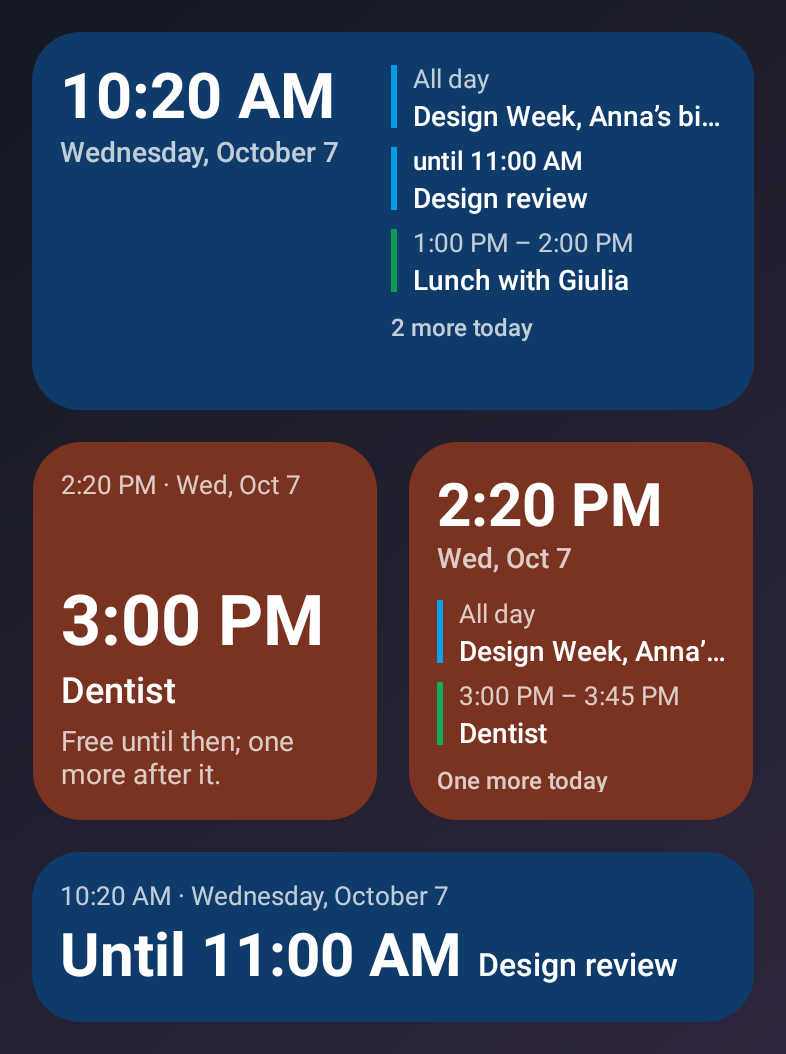
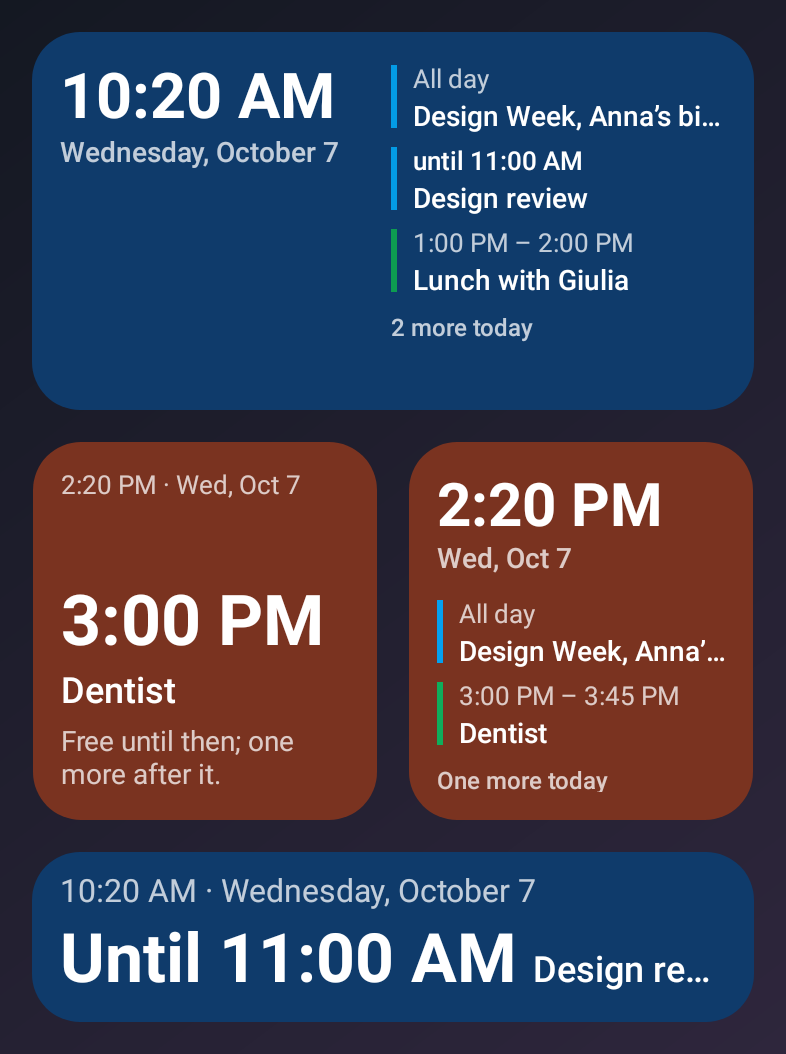
«In words»: Passo's row sizes, so the two cards match side by side
On the owner's phone the one-row «In words» card showed wide empty bands above
and below beside Passo's «At a glance». The insets were already the family's
(6 dp on a row); the content was small for the row (the line on top at 13 sp,
the time at most 30 sp), so the leftover height went into the bands.

- The time and the date on top at 16 sp (Passo's "of 8,000 steps"); a dated
  line steps down to 14, then 13 sp on a narrow card before it loses the date.
- The focus's time up to 34 sp (Passo's count, "86"), the title at 18 sp on
  the time's baseline (a computed lift, not a fixed 3 dp).
- The line on top is budgeted as the TextClock it is (no font padding).
- Tests: the one-row card at Passo's sizes and within its row at every text
  size, the date kept a size down; WidgetFitTest still finds nothing cut.
- README widgets picture regenerated; PLANNING §7 and §15, ADR 0003.

Claude-Session: https://claude.ai/code/session_01AC6jmVQdoCMP6rX2yoFrNh

Changed region(s): [[0.0611, 0.8197, 0.8855, 0.9412]]

diff --git a/core/domain/src/main/kotlin/com/callbackdev/tempo/core/domain/widget/WordsFit.kt b/core/domain/src/main/kotlin/com/callbackdev/tempo/core/domain/widget/WordsFit.kt
@@ -8,8 +8,12 @@ package com.callbackdev.tempo.core.domain.widget
  * |---|---|---|---|---|
  * | 1 | the focus's time ("15:00", "Until 11:00", "Free") | scaled to the grant | Bold | strong |
  * | 2 | its title | [TITLE_SP] | Medium | strong |
- * | 3 | the day's note, the line of times after it | [NOTE_SP] | Regular | quiet |
- * | 4 | the time and the date on top (the system's `TextClock`); a later day's name over the focus | [TOP_SP] | Regular / Medium | quiet |
+ * | 3 | the time and the date on top (the system's `TextClock`); a later day's name over the focus | [TOP_SP], [LABEL_SP] | Regular / Medium | quiet |
+ * | 4 | the day's note, the line of times after it | [NOTE_SP] | Regular | quiet |
+ *
+ * The sizes are Passo's «At a glance» row, so the family's cards read as one set on a home screen
+ * (owner, 8 Oct 2026): the focus's time up to its count's [LINE_HERO_MAX], the line on top at its
+ * facts' [TOP_SP].
  *
  * Four forms:
  *
@@ -30,6 +34,8 @@ enum class WordsForm { NEXT, LINE, STACK, PANEL }
  * @property topEms the small line on top in each style the card may use, in ems of the regular
  *   face, the reader's first ("10:20 · Wednesday 8 October", then shorter); empty when the reader
  *   hid both the clock and the date.
+ * @property topDated how many of [topEms], from the first, carry the date: the rest are the time
+ *   alone, which a narrow card takes only when no dated line fits even a size smaller.
  * @property heroEm the focus's time, in ems of the bold face.
  * @property label whether the focus carries a label over it (a later day's name).
  * @property title whether the focus has a title ("Free" has none).
@@ -42,6 +48,7 @@ data class WordsSpec(
     val height: Float,
     val fontScale: Float,
     val topEms: List<Float>,
+    val topDated: Int = topEms.size,
     val heroEm: Float,
     val label: Boolean,
     val title: Boolean,
@@ -51,7 +58,7 @@ data class WordsSpec(
 )
 
 /**
- * The card's plan: [topChoice] into [WordsSpec.topEms] (-1: no top line), the focus's size, the
+ * The card's plan: [topChoice] into [WordsSpec.topEms] (-1: no top line) at [topSp], the focus's size, the
  * title's size and lines (0: not drawn; [titleInline] beside the time), the note's lines, and
  * whether the line of times is drawn.
  */
@@ -67,7 +74,11 @@ data class WordsPlan(
     val then: Boolean,
     val snug: Boolean,
     val sidePadding: Float = AgendaFit.CARD_PADDING,
+    val topSp: Float = WordsFit.TOP_SP,
 )
+
+/** The line on top as drawn: which style, at which size. */
+private data class TopLine(val choice: Int, val sp: Float)
 
 object WordsFit {
     fun form(width: Float, height: Float): WordsForm = when {
@@ -89,9 +100,20 @@ object WordsFit {
     private fun sidePadding(spec: WordsSpec) =
         if (spec.width < AgendaFit.CLOCK_FORM_MAX_WIDTH) AgendaFit.CELL_PADDING else AgendaFit.CARD_PADDING
 
-    /** The small line on top: the first style whose width fits, or none. */
-    private fun topChoice(spec: WordsSpec): Int =
-        spec.topEms.indexOfFirst { widthOf(it, TOP_SP, spec.fontScale) <= innerWidth(spec) }
+    /**
+     * The line on top: the first dated style whose width fits at [TOP_SP], else a size smaller
+     * (down to [TOP_MIN_SP]) rather than lose the date, else the time alone; none where nothing fits.
+     */
+    private fun topLine(spec: WordsSpec): TopLine? {
+        val width = innerWidth(spec)
+        fun fits(choice: Int, sp: Float) = widthOf(spec.topEms[choice], sp, spec.fontScale) <= width
+        val dated = 0 until spec.topDated.coerceAtMost(spec.topEms.size)
+        TOP_SIZES.forEach { sp -> dated.firstOrNull { fits(it, sp) }?.let { return TopLine(it, sp) } }
+        return (dated.last + 1 until spec.topEms.size).firstOrNull { fits(it, TOP_SP) }?.let { TopLine(it, TOP_SP) }
+    }
+
+    /** What the line on top takes of the height: a `TextClock` without font padding. */
+    private fun topHeight(top: TopLine?, scale: Float): Float = top?.let { clockLineHeight(it.sp, scale) } ?: 0f
 
     /** One cell: the label, the time as large as fits, the title under it if a line is left. */
     private fun nextPlan(spec: WordsSpec): WordsPlan {
@@ -126,8 +148,8 @@ object WordsFit {
     private fun linePlan(spec: WordsSpec): WordsPlan {
         val inner = spec.height - AgendaFit.CARD_PADDING_SNUG * 2
         val width = innerWidth(spec)
-        val top = topChoice(spec)
-        val topHeight = if (top >= 0) lineHeight(TOP_SP, spec.fontScale) else 0f
+        val top = topLine(spec)
+        val topHeight = topHeight(top, spec.fontScale)
         val label = if (spec.label) lineHeight(LABEL_SP, spec.fontScale) else 0f
         fun hero(room: Float, most: Float) = quarterPoint(
             minOf(sizeForLine(room, spec.fontScale), LINE_HERO_MAX, spThatFits(most, spec.heroEm, spec.fontScale)),
@@ -138,7 +160,8 @@ object WordsFit {
         if (!spec.title || (inlineHero >= LINE_HERO_FLOOR && titleRoom >= INLINE_TITLE_MIN)) {
             return WordsPlan(
                 form = WordsForm.LINE,
-                topChoice = top,
+                topChoice = top?.choice ?: -1,
+                topSp = top?.sp ?: TOP_SP,
                 label = spec.label,
                 heroSp = inlineHero,
                 titleSp = LINE_TITLE_SP,
@@ -152,19 +175,20 @@ object WordsFit {
         // Stacked: the title under the time; the small line only where the time keeps its floor.
         val titleHeight = lineHeight(CELL_TITLE_SP + 2f, spec.fontScale)
         val withTop = hero(inner - topHeight - label - titleHeight, width)
-        val keepTop = top >= 0 && withTop >= LINE_HERO_FLOOR
+        val keepTop = top != null && withTop >= LINE_HERO_FLOOR
         val heroSp = if (keepTop) withTop else hero(inner - label - titleHeight, width)
         return WordsPlan(
-            WordsForm.LINE,
-            if (keepTop) top else -1,
-            spec.label,
-            heroSp,
-            CELL_TITLE_SP + 2f,
-            1,
-            false,
-            0,
-            false,
-            true,
+            form = WordsForm.LINE,
+            topChoice = if (keepTop) top?.choice ?: -1 else -1,
+            topSp = top?.sp ?: TOP_SP,
+            label = spec.label,
+            heroSp = heroSp,
+            titleSp = CELL_TITLE_SP + 2f,
+            titleLines = 1,
+            titleInline = false,
+            noteLines = 0,
+            then = false,
+            snug = true,
         )
     }
 
@@ -186,9 +210,9 @@ object WordsFit {
             left -= titleLine
             titleLines = 1
         }
-        var top = topChoice(spec)
-        val topHeight = lineHeight(TOP_SP, scale) + TOP_GAP
-        if (top >= 0 && left >= topHeight) left -= topHeight else top = -1
+        var top = topLine(spec)
+        val topHeight = topHeight(top, scale) + TOP_GAP
+        if (top != null && left >= topHeight) left -= topHeight else top = null
         // The note whole or not at all: a sentence cut off mid-phrase says less than none.
         val noteLine = lineHeight(NOTE_SP, scale)
         val noteHeight = noteLine * spec.noteLines + NOTE_GAP
@@ -204,16 +228,31 @@ object WordsFit {
             quarterPoint(
                 minOf(sizeForLine(lineHeight(floor, scale) + left.coerceAtLeast(0f), scale), TALL_HERO_MAX, byWidth),
             )
-        return WordsPlan(form, top, spec.label, hero, TITLE_SP, titleLines, false, noteLines, then, false)
+        return WordsPlan(
+            form = form,
+            topChoice = top?.choice ?: -1,
+            topSp = top?.sp ?: TOP_SP,
+            label = spec.label,
+            heroSp = hero,
+            titleSp = TITLE_SP,
+            titleLines = titleLines,
+            titleInline = false,
+            noteLines = noteLines,
+            then = then,
+            snug = false,
+        )
     }
 
     const val PANEL_MIN_WIDTH = 300f
 
-    const val TOP_SP = 13f
+    /** Passo's facts ("of 8,000 steps"); a narrow card's dated line steps down to [TOP_MIN_SP]. */
+    const val TOP_SP = 16f
+    const val TOP_MIN_SP = 13f
+    private val TOP_SIZES = listOf(TOP_SP, 14f, TOP_MIN_SP)
     const val TOP_GAP = 4f
-    const val LABEL_SP = 13f
+    const val LABEL_SP = 14f
     const val TITLE_SP = 18f
-    const val LINE_TITLE_SP = 16f
+    const val LINE_TITLE_SP = 18f
     const val CELL_TITLE_SP = 12f
     const val NOTE_SP = 14f
     const val NOTE_GAP = 4f
@@ -221,7 +260,9 @@ object WordsFit {
 
     const val NEXT_HERO_MAX = 32f
     const val NEXT_HERO_COMFORT = 20f
-    const val LINE_HERO_MAX = 30f
+
+    /** Passo's count on its row ("86"), so the two cards' numbers match side by side. */
+    const val LINE_HERO_MAX = 34f
     const val LINE_HERO_FLOOR = 20f
     const val INLINE_TITLE_MIN = 72f
     const val INLINE_GAP = 8f

diff --git a/widget/src/main/kotlin/com/callbackdev/tempo/widget/words/WordsWidget.kt b/widget/src/main/kotlin/com/callbackdev/tempo/widget/words/WordsWidget.kt
@@ -161,16 +161,21 @@ private class WordsParts(val context: Context, val model: WidgetModel, private v
      * The small line on top, in the order it is tried: the time and the reader's date, the time and
      * a shorter date, the time alone; the date alone where the reader hid the time.
      */
+    private val dates = DateStyle.entries.drop(text.dateStyle.ordinal)
+
     val topPatterns: List<ClockPatterns> = run {
         val time = ClockPatterns.time(locale, look.clockFormat ?: model.settings.clockFormat)
-        val dates = DateStyle.entries.drop(text.dateStyle.ordinal).map { ClockPatterns.date(locale, it).twentyFour }
+        val datePatterns = dates.map { ClockPatterns.date(locale, it).twentyFour }
         when {
-            look.showClock && look.showDate -> dates.map { time.withDate(it) } + time
+            look.showClock && look.showDate -> datePatterns.map { time.withDate(it) } + time
             look.showClock -> listOf(time)
-            look.showDate -> dates.map { ClockPatterns(it, it) }
+            look.showDate -> datePatterns.map { ClockPatterns(it, it) }
             else -> emptyList()
         }
     }
+
+    /** The patterns that carry the date: every one but the time alone. */
+    private val topDated = if (look.showDate) dates.size else 0
     private val topEms = topPatterns.map { patterns ->
         val pattern = patterns.current(context)
         textEm(
@@ -186,6 +191,7 @@ private class WordsParts(val context: Context, val model: WidgetModel, private v
             height = size.height.value,
             fontScale = scale,
             topEms = topEms,
+            topDated = topDated,
             heroEm = textEm(context, hero, TextWeight.BOLD),
             label = label != null,
             title = title != null,
@@ -219,11 +225,15 @@ private class WordsParts(val context: Context, val model: WidgetModel, private v
             WidgetIntents.header(context, look.headerTap, model.doors, model.now.toInstant()),
         )
 
+    /** The title's lift beside the time in an inline row, so the two share a baseline. */
+    val inlineBaseline: Dp
+        get() = ((plan.heroSp - plan.titleSp) * DESCENT_EM * scale).coerceAtLeast(0f).dp
+
     /** What a message has of the card: its height, less the insets and the small line on top. */
     val messageRoom: Dp
         get() = (
             size.height.value - (if (plan.snug) AgendaFit.CARD_PADDING_SNUG else AgendaFit.CARD_PADDING) * 2 -
-                (if (plan.topChoice >= 0) clockLineHeight(WordsFit.TOP_SP, scale) + WordsFit.TOP_GAP else 0f)
+                (if (plan.topChoice >= 0) clockLineHeight(plan.topSp, scale) + WordsFit.TOP_GAP else 0f)
             ).dp
 
     /** A touch on the focus opens it as the reader chose; on "Free" or a message, Tempo. */
@@ -253,13 +263,13 @@ private fun TopLine(parts: WordsParts, palette: WidgetPalette) {
             parts.context,
             ClockFace.REGULAR,
             parts.topPatterns[choice],
-            WordsFit.TOP_SP,
+            parts.plan.topSp,
             palette.secondary,
             1,
             parts.headerIntent,
             parts.model.now.takeIf { parts.model.frozenClock },
         ),
-        modifier = GlanceModifier.height(clockLineHeight(WordsFit.TOP_SP, parts.scale).dp),
+        modifier = GlanceModifier.height(clockLineHeight(parts.plan.topSp, parts.scale).dp),
     )
 }
 
@@ -359,7 +369,7 @@ private fun LineContent(parts: WordsParts, palette: WidgetPalette) {
                         palette,
                         GlanceModifier.padding(
                             start = WordsFit.INLINE_GAP.dp,
-                            bottom = INLINE_BASELINE.dp,
+                            bottom = parts.inlineBaseline,
                         ).defaultWeight(),
                     )
                 }
@@ -401,5 +411,9 @@ private fun TallContent(parts: WordsParts, palette: WidgetPalette) {
     }
 }
 
-/** The title's lift in an inline row, so it sits nearer the bold time's baseline than its box's bottom. */
-private const val INLINE_BASELINE = 3f
+/**
+ * Roboto's line box under the baseline (555 of 2048 units): a line keeps the face's descent under
+ * its baseline in proportion to its size, so the large time stands higher than a smaller title
+ * bottom-aligned with it (Chiaro's `textPanelBaselineLift`, Passo's `baselineLift`).
+ */
+private const val DESCENT_EM = 0.271f

diff --git a/core/domain/src/test/kotlin/com/callbackdev/tempo/core/domain/widget/WordsTest.kt b/core/domain/src/test/kotlin/com/callbackdev/tempo/core/domain/widget/WordsTest.kt
@@ -75,6 +75,7 @@ class WordsTest {
             height = height,
             fontScale = scale,
             topEms = listOf(14.5f, 9.8f, 2.4f),
+            topDated = 2,
             heroEm = 2.65f,
             label = label,
             title = title,
@@ -119,6 +120,33 @@ class WordsTest {
     }
 
     @Test
+    fun `a one-row card has Passo's sizes, the time at its count's and the line on top at its facts'`() {
+        val row = WordsFit.plan(spec(340f, 85f))
+        assertThat(row.heroSp).isEqualTo(WordsFit.LINE_HERO_MAX)
+        assertThat(row.topChoice).isEqualTo(0)
+        assertThat(row.topSp).isEqualTo(WordsFit.TOP_SP)
+        val used = clockLineHeight(row.topSp, 1f) + lineHeight(row.heroSp, 1f)
+        assertThat(used).isAtMost(85f - AgendaFit.CARD_PADDING_SNUG * 2)
+    }
+
+    @Test
+    fun `a one-row card keeps the time whole at any text size, the line on top giving way first`() {
+        listOf(1.15f, 1.3f, 2f).forEach { scale ->
+            val row = WordsFit.plan(spec(340f, 85f, scale = scale))
+            val top = if (row.topChoice >= 0) clockLineHeight(row.topSp, scale) else 0f
+            assertThat(top + lineHeight(row.heroSp, scale)).isAtMost(85f - AgendaFit.CARD_PADDING_SNUG * 2 + 0.5f)
+        }
+    }
+
+    @Test
+    fun `a dated line steps a size down before it loses the date`() {
+        val plan = WordsFit.plan(spec(170f, 189f))
+        assertThat(plan.topChoice).isEqualTo(1)
+        assertThat(plan.topSp).isLessThan(WordsFit.TOP_SP)
+        assertThat(plan.topSp).isAtLeast(WordsFit.TOP_MIN_SP)
+    }
+
+    @Test
     fun `the narrow tall card shortens its top line rather than dropping it`() {
         assertThat(WordsFit.plan(spec(159f, 189f)).topChoice).isEqualTo(2)
         assertThat(WordsFit.plan(spec(200f, 189f)).topChoice).isEqualTo(1)
@@ -131,7 +159,7 @@ class WordsTest {
                 val plan = WordsFit.plan(spec(w, h, scale, label = true))
                 val used = lineHeight(plan.heroSp, scale) + lineHeight(WordsFit.LABEL_SP, scale) +
                     lineHeight(WordsFit.TITLE_SP, scale) * plan.titleLines +
-                    (if (plan.topChoice >= 0) lineHeight(WordsFit.TOP_SP, scale) + WordsFit.TOP_GAP else 0f) +
+                    (if (plan.topChoice >= 0) clockLineHeight(plan.topSp, scale) + WordsFit.TOP_GAP else 0f) +
                     (if (plan.noteLines > 0) WordsFit.NOTE_GAP else 0f) +
                     lineHeight(WordsFit.NOTE_SP, scale) * (plan.noteLines + if (plan.then) 1 else 0)
                 assertThat(used).isAtMost(h - AgendaFit.CARD_PADDING * 2 + 0.5f)

diff --git a/PLANNING.md b/PLANNING.md
@@ -275,7 +275,7 @@ With the clock and the date both hidden, the card is its list alone, on any gran
 | «In words» form | When | Content |
 |---|---|---|
 | NEXT | one cell | The focus's time ("Until" over "11:00", "Next" over "15:00", "Free"), its title where the cell has room |
-| LINE | one row | The time and the date as a small line; the focus's time and title on one line (under it on a narrow row) |
+| LINE | one row | The time and the date as a line on top (16 sp); the focus's time (up to 34 sp) and title (18 sp) on one line, on one baseline (the title under the time on a narrow row): Passo's row's sizes |
 | STACK | two rows and up | The time and date on top; the focus large (time, then title); the day's note at the bottom |
 | PANEL | two rows and up, four cells | The same, with the rest of the day as a line of times ("Then 16:30 · 18:00") in place of the note's count |
 
@@ -574,6 +574,8 @@ Each phase ends with a merged PR, green CI and its acceptance criteria met. Phas
 - **8 Oct 2026, Phase 4.** An event's touch opens its occurrence in the calendar app by default (Tempo's Today is the other choice): it is what a touch on an event does on Today. Two occurrences of one repeating event are two pending intents (`Intent.setIdentifier`), else the second's times would ride on the first.
 - **8 Oct 2026, Phase 4.** The widgets' refresh also runs when Tempo's settings change and when the reader leaves the app (where they may have granted the permission or hidden a calendar): both are the reader's own acts, never a timer. The Application listens to the settings, which costs nothing until one changes.
 - **8 Oct 2026, Phase 4.** The first run's last button is now «Next» on the calendar's page and «Done» on the widgets' page; "Not now" leads to the widgets, which are offered, never required. The feature modules reach the widgets through `HomeScreenWidgets` (`:core:data`), bound by `:widget`.
+
+- **8 Oct 2026, after Phase 4.** «In words» takes Passo's «At a glance» row sizes (owner, from the phone: beside Passo's card the one-row card showed wide empty bands above and below). The insets were already the family's (6 dp on a row); the content was small for the row (the line on top at 13 sp, the time at most 30 sp), so the air went into the bands. Now the line on top is at Passo's facts' 16 sp ("of 8,000 steps") and the focus's time grows to Passo's count's 34 sp ("86"), with the title at 18 sp on the time's baseline: a 4×1 card holds 19 dp + 45 dp of its 73, as Passo's does. On a narrow card a dated line steps down to 14, then 13 sp, before it loses the date; the tall forms take the same line on top. The line on top is budgeted as the `TextClock` it is (1.2 em, no font padding), not as a Glance text. `WidgetFitTest` still finds nothing cut, in both languages, at 1 to 1.3 the text size.
 
 ### Open
 

diff --git a/docs/adr/0003-widgets.md b/docs/adr/0003-widgets.md
@@ -68,6 +68,10 @@ have, and Tempo needs, is a clock and a refresh driven by a calendar instead of 
    pin request where the launcher takes one, and the way by hand where it does not. The feature
    modules reach `:widget` through `HomeScreenWidgets` (`:core:data`), bound by Hilt.
 
+8. **«In words» on Passo's row's sizes** (owner, 8 Oct 2026, after the first cards on the phone):
+   the line on top at 16 sp, the focus's time up to 34 sp, so the two cards read as one set side
+   by side; `WordsFit` keeps the numbers, the tests their consequences.
+
 ## Consequences
 
 - Nothing of Tempo runs for the widgets while nothing changes; a calendar change reaches a card
